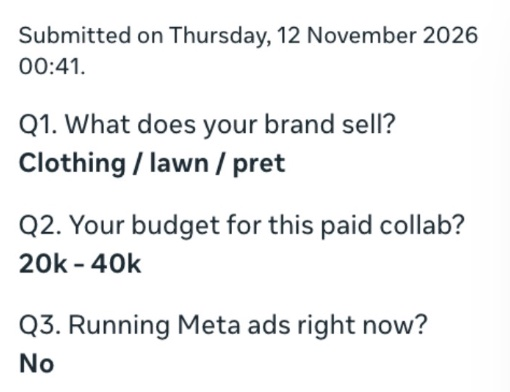
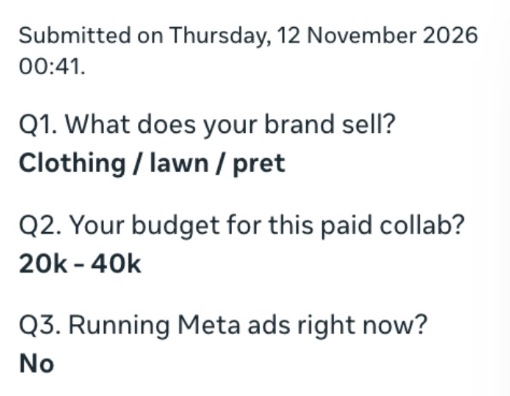
Brand requests: horizontal swipe carousel, crops with margin below Q3

diff --git a/components/landing/Results.tsx b/components/landing/Results.tsx
@@ -49,10 +49,10 @@ export function Results() {
       <div className="mt-12">
         <p className="text-xs font-semibold tracking-[0.18em] text-lime uppercase">Brand requests, three days in a row</p>
         <p className="mt-2 text-[15px] text-bone-2">Brand owners fill in the form, and the request lands with us. Contact details removed.</p>
-        <ul className="mt-5 grid gap-4 sm:grid-cols-3">
+        <ul className="-mx-4 mt-5 flex snap-x snap-mandatory gap-4 overflow-x-auto px-4 pb-3 sm:mx-0 sm:px-0 [scrollbar-width:thin]">
           {LEADS.map((l) => (
-            <li key={l.src} className="overflow-hidden rounded-card border border-ink-4 bg-ink-2">
-              <Image src={l.src} alt={l.alt} width={l.w} height={l.h} sizes="(min-width: 640px) 33vw, 100vw" className="h-auto w-full" />
+            <li key={l.src} className="w-[78%] shrink-0 snap-start overflow-hidden rounded-card border border-ink-4 bg-white sm:w-[340px]">
+              <Image src={l.src} alt={l.alt} width={l.w} height={l.h} sizes="(min-width: 640px) 340px, 78vw" className="h-auto w-full" />
             </li>
           ))}
         </ul>
